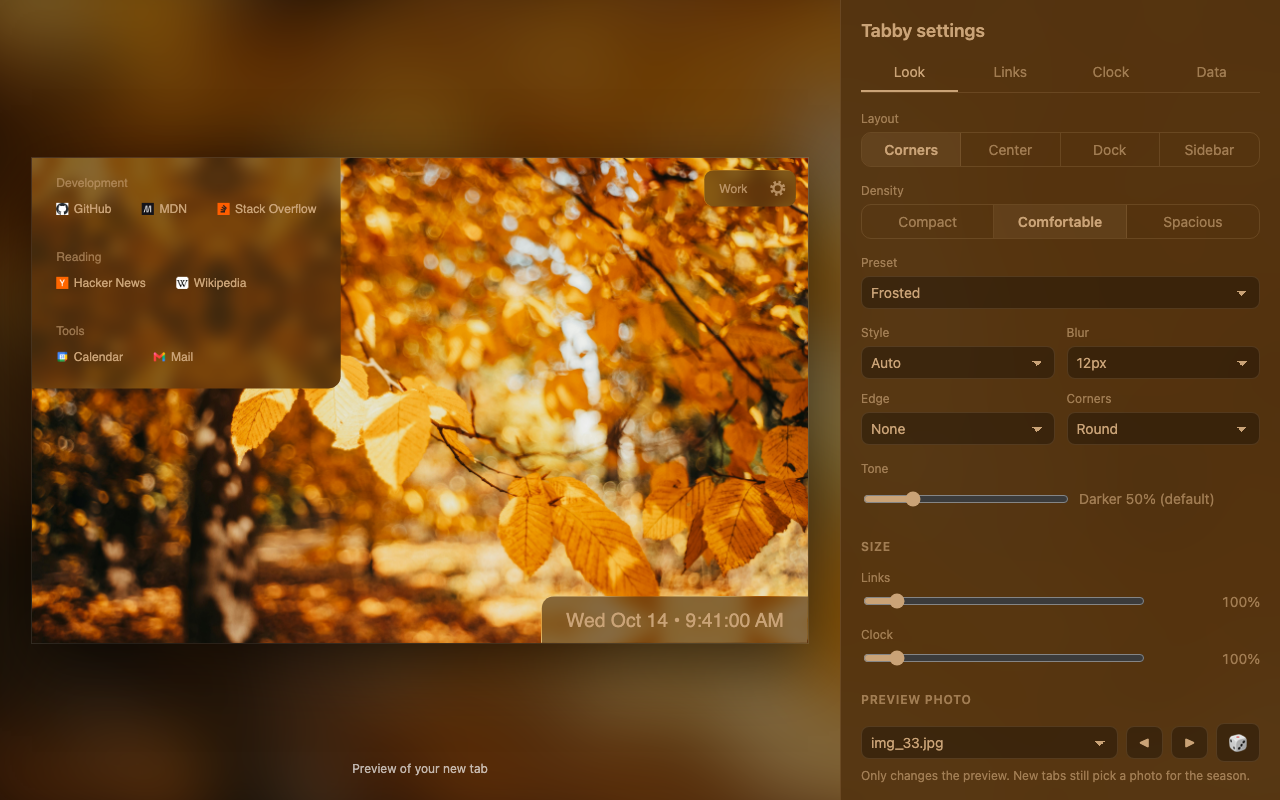
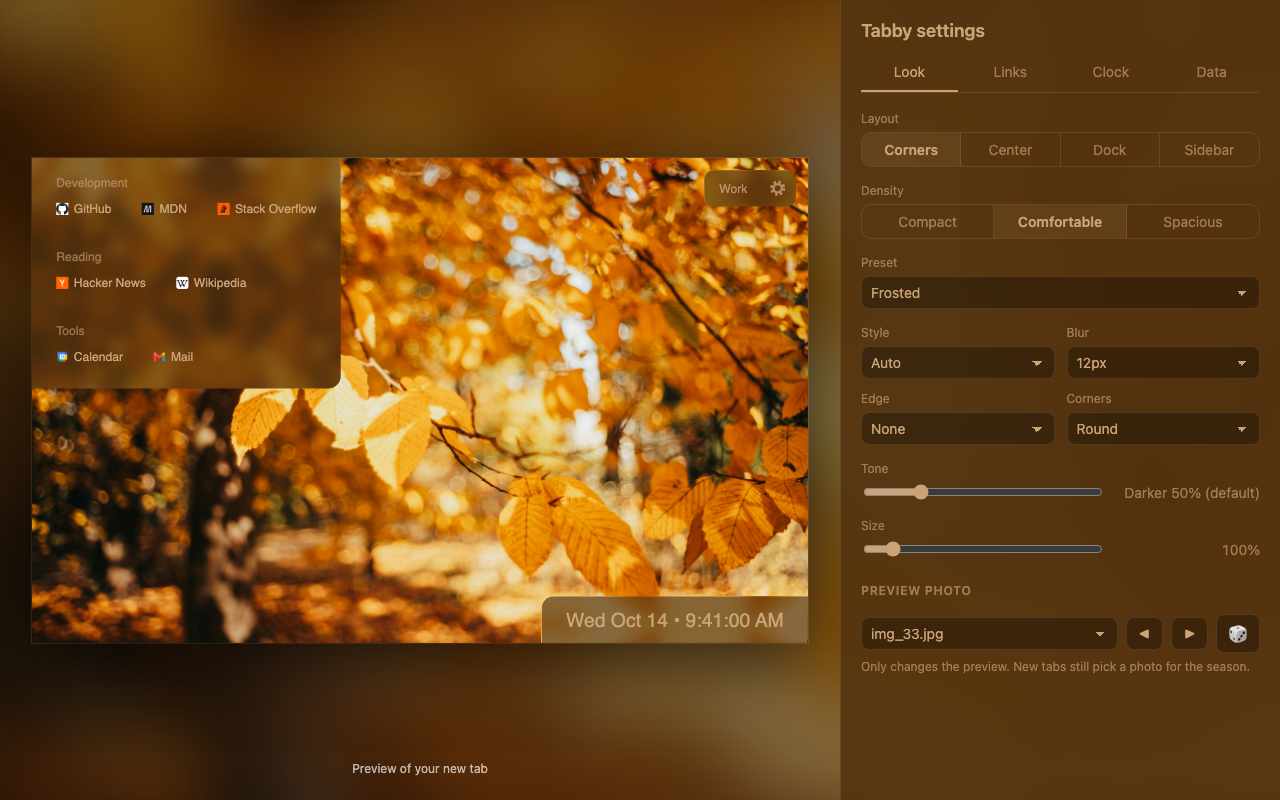
Combine the links and clock size sliders into one Size control
Separate sizes let the two panels drift out of proportion, which undid
keeping their spacing in sync. There's now one scale setting that both
panels zoom by, shown as a single Size slider (typed values still work).
Saved data with separate sizes carries the links size over as the
shared one, and the old keys are dropped.

The tone reset moves up beside the Tone label, so it no longer steals
width from its slider; readouts get a fixed width so the drawer's
sliders line up.

Regenerates the store screenshots.

Changed region(s): [[0.6562, 0.5938, 1.0, 0.875], [0.6562, 0.9062, 1.0, 1.0]]

diff --git a/options.html b/options.html
@@ -296,8 +296,9 @@
         font-weight: 600;
       }
 
+      /* Fixed width so every slider in the drawer is the same length */
       .value {
-        min-width: 7.5em;
+        flex: 0 0 10.5em;
         text-align: right;
         font-variant-numeric: tabular-nums;
         color: var(--ink-muted);
@@ -336,9 +337,21 @@
         border-color: var(--danger);
       }
 
-      .btn[hidden] {
-        visibility: hidden;
-        display: inline-block;
+      .field-head {
+        display: flex;
+        justify-content: space-between;
+        align-items: baseline;
+        color: var(--ink-muted);
+        font-size: 12px;
+      }
+
+      .field-head .link-add {
+        font-size: 12px;
+        padding: 0;
+      }
+
+      .field-head [hidden] {
+        display: none;
       }
 
       /* Small icon buttons on each row, shown on hover so the list stays calm */
@@ -649,27 +662,21 @@
           </div>
 
           <div class="field">
-            <label for="look-tone">Tone</label>
+            <div class="field-head">
+              <label for="look-tone">Tone</label>
+              <button class="link-add" id="look-tone-reset" title="Back to the style's default tone" hidden>↺ Reset</button>
+            </div>
             <div class="field-row">
               <input type="range" id="look-tone" min="-90" max="90" step="5" />
               <span class="value" id="look-tone-value"></span>
-              <button class="btn" id="look-tone-reset" title="Back to the style's default tone" hidden>↺</button>
             </div>
           </div>
 
-          <h2>Size</h2>
           <div class="field">
-            <label for="links-scale">Links</label>
+            <label for="panel-scale">Size</label>
             <div class="field-row">
-              <input type="range" id="links-scale" min="0.25" max="8" step="0.05" />
-              <span class="value" id="links-scale-value"></span>
-            </div>
-          </div>
-          <div class="field">
-            <label for="clock-scale">Clock</label>
-            <div class="field-row">
-              <input type="range" id="clock-scale" min="0.25" max="8" step="0.05" />
-              <span class="value" id="clock-scale-value"></span>
+              <input type="range" id="panel-scale" min="0.25" max="8" step="0.05" />
+              <span class="value" id="panel-scale-value"></span>
             </div>
           </div>
 

diff --git a/panels.css b/panels.css
@@ -7,8 +7,7 @@
   --text-hover: #ccc3;
   --panel-background: #000c;
   --font-size: 20px;
-  --links-scale: 1;
-  --clock-scale: 1;
+  --panel-scale: 1;
   /* Look settings; render.js's applyLook overrides these */
   --panel-radius: 1em;
   --panel-blur: 0px;
@@ -67,7 +66,7 @@ body.no-favicons a.link .favicon {
 .link-groups {
   display: inline-block;
   /* zoom (not transform) so layout and scrolling scale with it */
-  zoom: var(--links-scale);
+  zoom: var(--panel-scale);
   overflow: auto;
   /* never extend past the viewport; scroll instead */
   max-height: 100%;
@@ -121,7 +120,7 @@ body.no-favicons a.link .favicon {
   position: fixed;
   bottom: 0rem;
   right: 0rem;
-  zoom: var(--clock-scale);
+  zoom: var(--panel-scale);
   /* Matches the links panel: its padding vertically, and its text inset
      (panel padding plus link padding) horizontally, so the two panels read
      as a set. --density comes from the density setting (end of file). */
@@ -134,7 +133,7 @@ body.no-favicons a.link .favicon {
   border-bottom-right-radius: 0;
 
   & > span {
-    /* the clock-scale setting multiplies this */
+    /* the size setting multiplies this */
     font-size: 1.6rem;
   }
 

diff --git a/storage.js b/storage.js
@@ -19,9 +19,8 @@ const defaultSettings = {
   twelveHourClock: true,
   showFavicons: true,
   showSeconds: true,
-  // Independent size multipliers for the two new-tab panels
-  linksScale: 1,
-  clockScale: 1,
+  // Size multiplier for both new-tab panels
+  scale: 1,
   // Panel look; the Frosted preset (see LOOK_PRESETS in render.js)
   look: {
     layout: "corners",
@@ -86,12 +85,17 @@ const setKey = (name) => SYNC_SET_PREFIX + name;
 let usingUnsavedDefaults = false;
 
 const backfillSettings = (meta) => {
+  const stored = meta.settings ?? {};
   // Backfill settings added after the meta was first written; look is merged
   // a level deeper so newly added look fields get defaults too
+  const { linksScale, clockScale, ...current } = stored;
   meta.settings = {
     ...defaultSettings,
-    ...meta.settings,
-    look: { ...defaultSettings.look, ...meta.settings?.look },
+    ...current,
+    look: { ...defaultSettings.look, ...stored.look },
+    // Links and clock used to have separate sizes; the links size carries
+    // over as the shared one
+    scale: stored.scale ?? linksScale ?? defaultSettings.scale,
   };
   return meta;
 };

diff --git a/render.js b/render.js
@@ -240,10 +240,9 @@ function updateClock(settings) {
   if (clockSpan.innerHTML !== html) clockSpan.innerHTML = html;
 }
 
-// Each panel zooms independently off its own multiplier
+// Both panels zoom off one multiplier so they stay in proportion
 function applyScales(settings) {
-  document.documentElement.style.setProperty("--links-scale", settings.linksScale);
-  document.documentElement.style.setProperty("--clock-scale", settings.clockScale);
+  document.documentElement.style.setProperty("--panel-scale", settings.scale);
 }
 
 // Shows the photo with the panels styled to match; resolves to the photo's

diff --git a/options.js b/options.js
@@ -81,8 +81,7 @@ const SETTING_CHECKBOXES = {
 // Maps settings-slider element ids to their settings keys; each slider has
 // a matching "<id>-value" percentage readout
 const SETTING_SLIDERS = {
-  "links-scale": "linksScale",
-  "clock-scale": "clockScale",
+  "panel-scale": "scale",
 };
 
 function renderSettings() {
